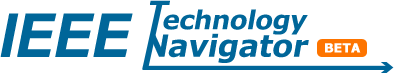
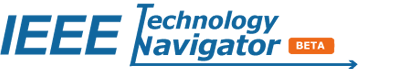
Applied gradient to main page; set header images with transparent background.

diff --git a/media/css/style.css b/media/css/style.css
@@ -2666,7 +2666,10 @@ width: 85%;
 min-width: 1010px;
 margin: 30px auto 5px;
 padding: 0 10px 10px 10px;
-background: #FFFFFF url(/media/images/inner-top.png) no-repeat top right;
+background: url(/media/images/inner-top.png) no-repeat scroll top right, -moz-linear-gradient(center top , #F2F5FF, #C6D3FE) repeat scroll 0 0 #F2F5FF;
+background: url(/media/images/inner-top.png) no-repeat scroll top right, -webkit-gradient(linear, left top, left bottom, from(#F2F5FF), to(#C6D3FE)) repeat scroll 0 0 #F2F5FF;
+background: #F2F5FF url(/media/images/inner-top.png) no-repeat scroll top right,
+filter: progid:DXImageTransform.Microsoft.gradient(startColorstr='#F35228', endColorstr='#C94220');
 -moz-border-radius: 10px 0 10px 10px;
 -webkit-border-top-left-radius: 10px;
 -webkit-border-top-right-radius: 0px;

diff --git a/templates/header.inc.html b/templates/header.inc.html
@@ -9,7 +9,7 @@
     </span>
     <div id="header-logo">
         <a href="{{ LOGO_HREF }}" class="home">
-            <img src="{{MEDIA_URL}}images/technav_banner.png" width="364" height="65"/>
+            <img src="{{MEDIA_URL}}images/technav_banner.png" width="410" height="73"/>
         </a>
          <span id="tagline">Connecting You to the IEEE Universe of Information</span>
     </div>
